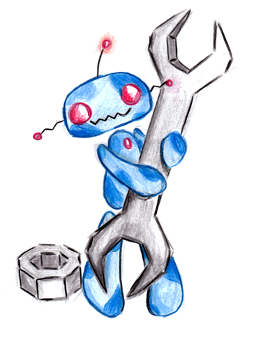
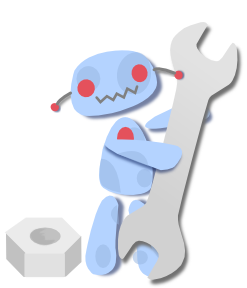
New marvin images

diff --git a/templates/index-public.php b/templates/index-public.php
@@ -112,7 +112,7 @@
                 </ul>
             </div>
 
-            <div class="sectionside" style="height: 300px; background: url(<?=URL_STATIC?>/images/marvinchills.png) bottom right no-repeat">
+            <div class="sectionside" style="height: 300px; background: url(<?=URL_STATIC?>/images/marvinchecksit.png) bottom center no-repeat">
             </div>
 
         </section>
